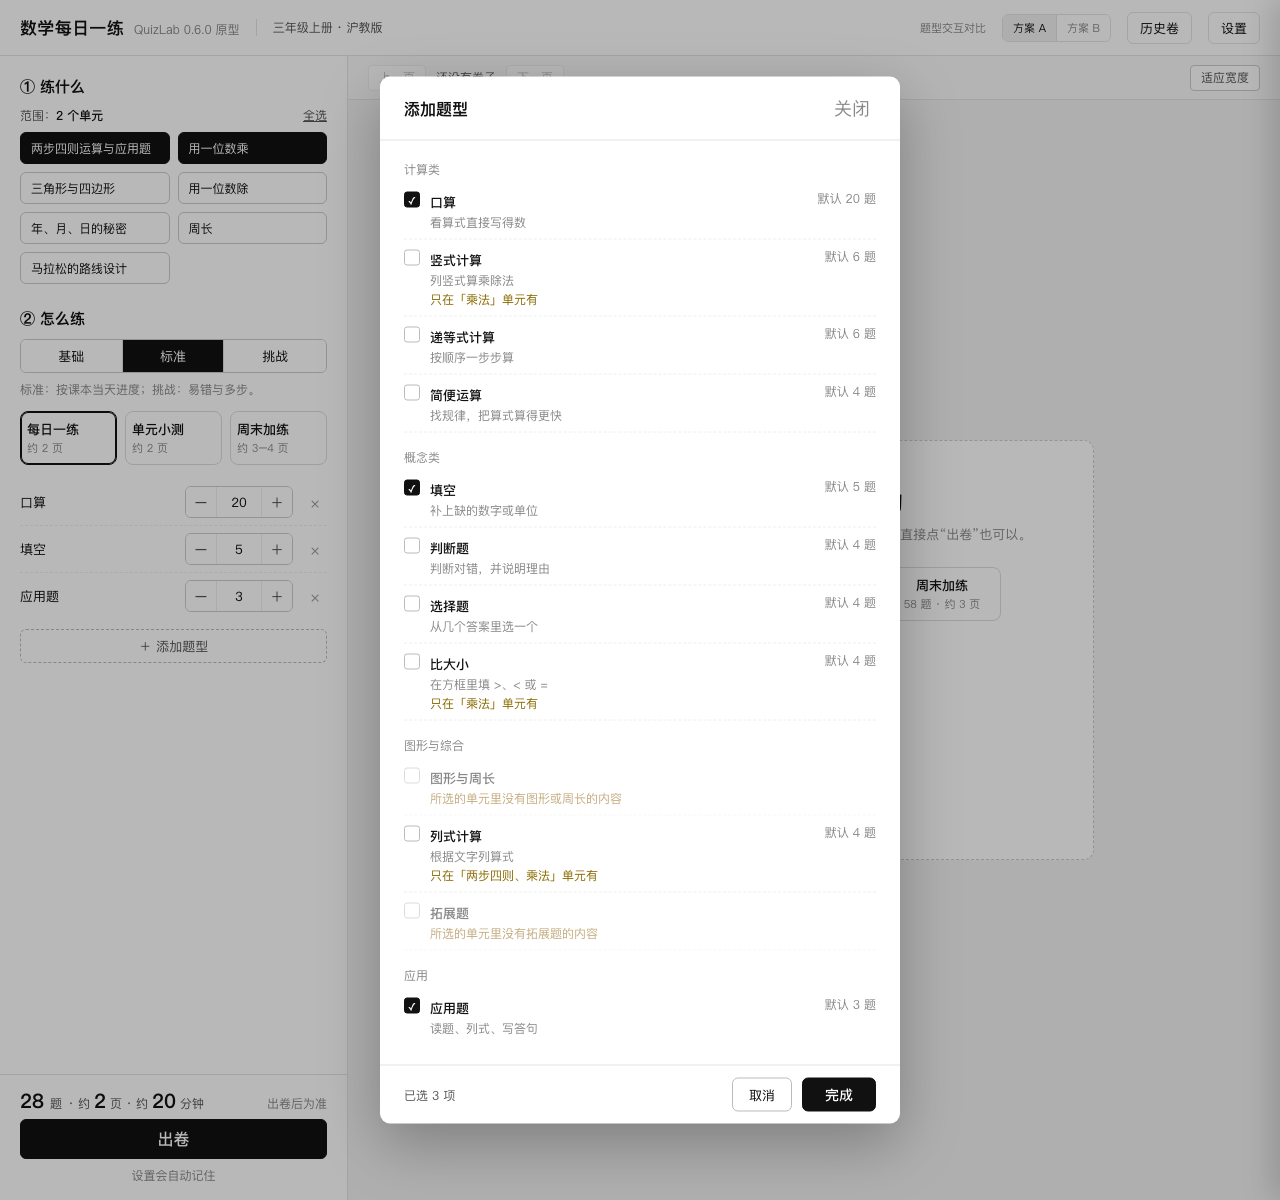
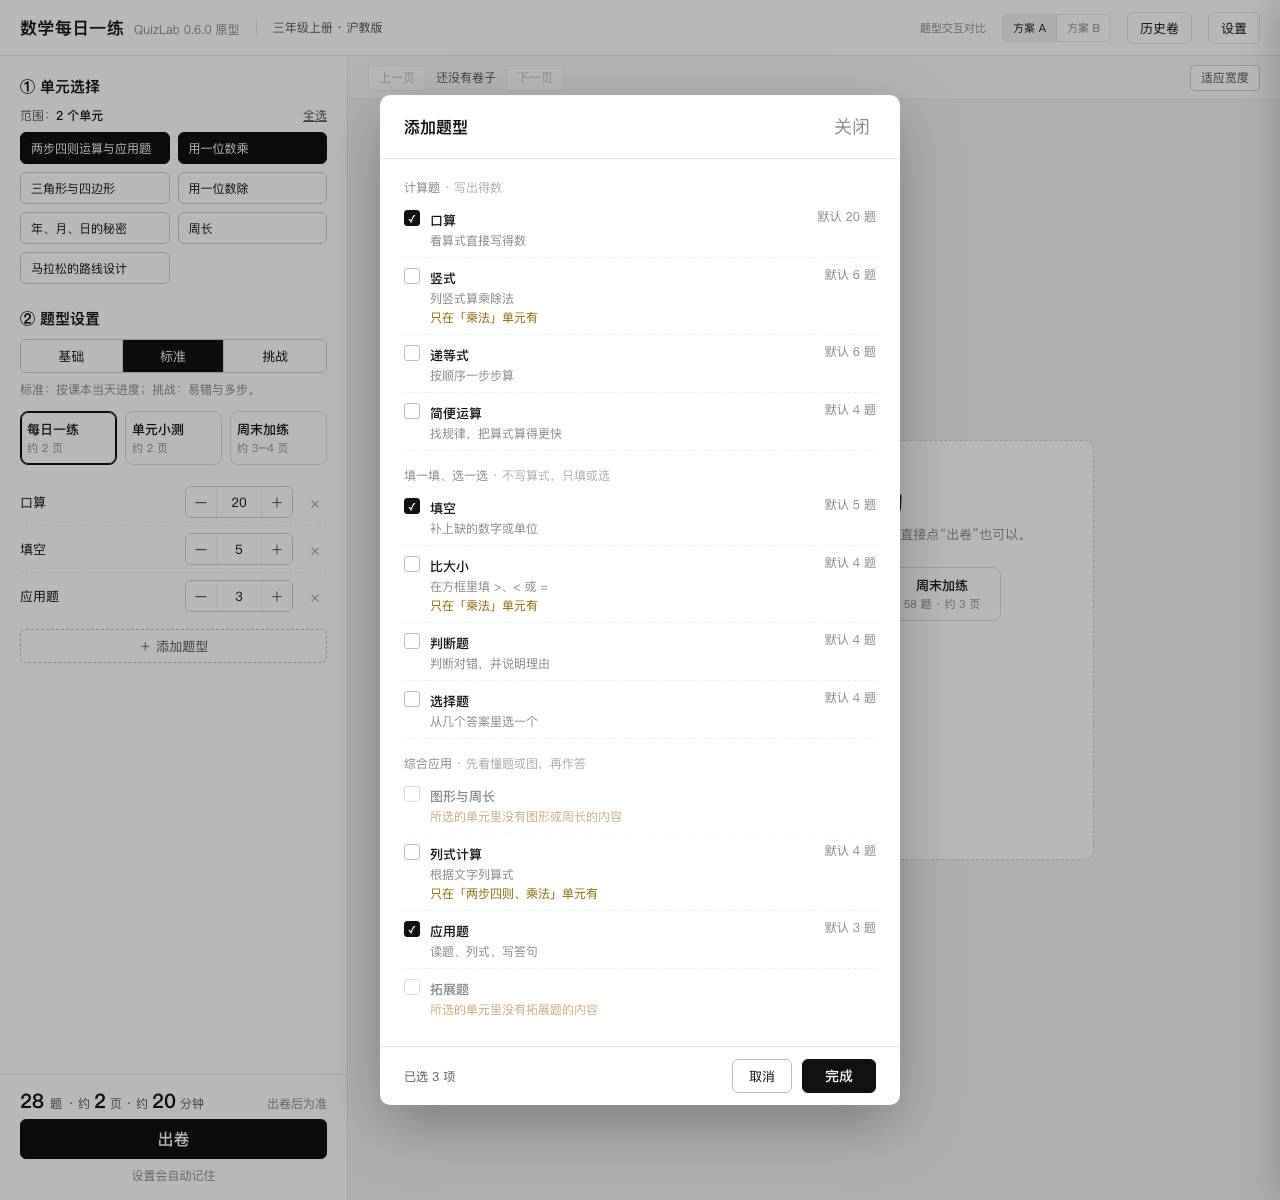
docs: 0.6.0 原型标题与题型分组调整
两个区块改为“单元选择 / 题型设置”；添加面板按 3 组 × 4 项重排，A/B 两版一致。

diff --git a/docs/ui-prototype-0.6.0/index.html b/docs/ui-prototype-0.6.0/index.html
@@ -134,6 +134,7 @@
       .add-search { width: 100%; height: 34px; margin-top: 8px; padding: 0 10px; border: 1px solid #ccc; border-radius: 6px; font-size: 13px; }
       .add-search::placeholder { color: #aaa; }
       .group-title { margin: 16px 0 4px; font-size: 12px; color: var(--ink-3); }
+      .group-hint { color: #aaa; }
       .add-item { display: flex; align-items: flex-start; gap: 10px; padding: 8px 0; border-bottom: 1px dashed #eee; }
       .add-item:last-child { border-bottom: 0; }
       .add-item.disabled { opacity: .5; }
@@ -316,13 +317,13 @@
       <aside class="side">
         <div class="side-scroll">
           <section class="block">
-            <h2>① 练什么</h2>
+            <h2>① 单元选择</h2>
             <div class="range-line"><span>范围：<b id="rangeSummary">全部 7 个单元</b></span><button class="linkbtn" id="toggleAll">全不选</button></div>
             <div class="chips" id="units"></div>
           </section>
 
           <section class="block">
-            <h2>② 怎么练</h2>
+            <h2>② 题型设置</h2>
             <div class="seg" id="levels">
               <button data-level="L1">基础</button>
               <button data-level="L2">标准</button>
@@ -463,20 +464,24 @@
       ]
 
       const TYPES = [
-        { id: 'kousuan', group: '计算类', label: '口算', desc: '看算式直接写得数', def: 20, available: 120, cost: 0.02 },
-        { id: 'chushi', group: '计算类', label: '竖式计算', desc: '列竖式算乘除法', def: 6, available: 150, cost: 0.06, needs: ['用一位数乘', '用一位数除'], topic: '竖式计算的内容' },
-        { id: 'tuoshi', group: '计算类', label: '递等式计算', desc: '按顺序一步步算', def: 6, available: 120, cost: 0.06, needs: ['两步四则运算与应用题'], topic: '两步计算的内容' },
-        { id: 'jianbian', group: '计算类', label: '简便运算', desc: '找规律，把算式算得更快', def: 4, available: 80, cost: 0.06, needs: ['两步四则运算与应用题'], topic: '简便运算的内容' },
-        { id: 'tiankong', group: '概念类', label: '填空', desc: '补上缺的数字或单位', def: 5, available: 90, cost: 0.06 },
-        { id: 'judge', group: '概念类', label: '判断题', desc: '判断对错，并说明理由', def: 4, available: 50, cost: 0.06 },
-        { id: 'choice', group: '概念类', label: '选择题', desc: '从几个答案里选一个', def: 4, available: 50, cost: 0.08 },
-        { id: 'compare', group: '概念类', label: '比大小', desc: '在方框里填 >、< 或 =', def: 4, available: 40, cost: 0.06, needs: ['用一位数乘', '用一位数除'], topic: '比大小的内容' },
-        { id: 'geom', group: '图形与综合', label: '图形与周长', desc: '数图形，算周长', def: 4, available: 30, cost: 0.2, needs: ['三角形与四边形', '周长'], topic: '图形或周长的内容' },
-        { id: 'lieshi', group: '图形与综合', label: '列式计算', desc: '根据文字列算式', def: 4, available: 40, cost: 0.12, needs: ['两步四则运算与应用题', '用一位数乘', '用一位数除'], topic: '列式计算的内容' },
-        { id: 'advanced', group: '图形与综合', label: '拓展题', desc: '多一步的思考题，每题留 3–4 行', def: 3, available: 20, cost: 0.2, needs: ['年、月、日的秘密', '马拉松的路线设计'], topic: '拓展题的内容' },
-        { id: 'word', group: '应用', label: '应用题', desc: '读题、列式、写答句', def: 3, available: 60, cost: 0.08 },
+        { id: 'kousuan', group: '计算题', label: '口算', desc: '看算式直接写得数', def: 20, available: 120, cost: 0.02 },
+        { id: 'chushi', group: '计算题', label: '竖式', desc: '列竖式算乘除法', def: 6, available: 150, cost: 0.06, needs: ['用一位数乘', '用一位数除'], topic: '竖式计算的内容' },
+        { id: 'tuoshi', group: '计算题', label: '递等式', desc: '按顺序一步步算', def: 6, available: 120, cost: 0.06, needs: ['两步四则运算与应用题'], topic: '两步计算的内容' },
+        { id: 'jianbian', group: '计算题', label: '简便运算', desc: '找规律，把算式算得更快', def: 4, available: 80, cost: 0.06, needs: ['两步四则运算与应用题'], topic: '简便运算的内容' },
+        { id: 'tiankong', group: '填一填、选一选', label: '填空', desc: '补上缺的数字或单位', def: 5, available: 90, cost: 0.06 },
+        { id: 'compare', group: '填一填、选一选', label: '比大小', desc: '在方框里填 >、< 或 =', def: 4, available: 40, cost: 0.06, needs: ['用一位数乘', '用一位数除'], topic: '比大小的内容' },
+        { id: 'judge', group: '填一填、选一选', label: '判断题', desc: '判断对错，并说明理由', def: 4, available: 50, cost: 0.06 },
+        { id: 'choice', group: '填一填、选一选', label: '选择题', desc: '从几个答案里选一个', def: 4, available: 50, cost: 0.08 },
+        { id: 'geom', group: '综合应用', label: '图形与周长', desc: '数图形，算周长', def: 4, available: 30, cost: 0.2, needs: ['三角形与四边形', '周长'], topic: '图形或周长的内容' },
+        { id: 'lieshi', group: '综合应用', label: '列式计算', desc: '根据文字列算式', def: 4, available: 40, cost: 0.12, needs: ['两步四则运算与应用题', '用一位数乘', '用一位数除'], topic: '列式计算的内容' },
+        { id: 'word', group: '综合应用', label: '应用题', desc: '读题、列式、写答句', def: 3, available: 60, cost: 0.08 },
+        { id: 'advanced', group: '综合应用', label: '拓展题', desc: '多一步的思考题，每题留 3–4 行', def: 3, available: 20, cost: 0.2, needs: ['年、月、日的秘密', '马拉松的路线设计'], topic: '拓展题的内容' },
       ]
-      const GROUPS = ['计算类', '概念类', '图形与综合', '应用']
+      const GROUPS = [
+        { name: '计算题', hint: '写出得数' },
+        { name: '填一填、选一选', hint: '不写算式，只填或选' },
+        { name: '综合应用', hint: '先看懂题或图，再作答' },
+      ]
       const SHORT_UNIT = {
         '两步四则运算与应用题': '两步四则',
         '用一位数乘': '乘法',
@@ -824,11 +829,15 @@
         }
         const q = state.search.trim()
         GROUPS.forEach((group) => {
-          const items = TYPES.filter((t) => t.group === group && (!q || t.label.includes(q) || t.desc.includes(q)))
+          const items = TYPES.filter((t) => t.group === group.name && (!q || t.label.includes(q) || t.desc.includes(q)))
           if (!items.length) return
           const title = document.createElement('div')
           title.className = 'group-title'
-          title.textContent = group
+          title.textContent = group.name
+          const hint = document.createElement('span')
+          hint.className = 'group-hint'
+          hint.textContent = ` · ${group.hint}`
+          title.appendChild(hint)
           body.appendChild(title)
           items.forEach((t) => {
             const av = availability(t)

diff --git a/docs/ui-design-0.6.0.md b/docs/ui-design-0.6.0.md
@@ -81,11 +81,11 @@
 ├───────────────────────────┬──────────────────────────────────┤
 │ 左栏 340px（常驻）        │ 右栏（常驻）                     │
 │                           │                                  │
-│ ① 练什么                  │ 预览工具条：第 1/2 页 · 适应宽度 │
+│ ① 单元选择                │ 预览工具条：第 1/2 页 · 适应宽度 │
 │   范围：全部 7 个单元 ›   │ ┌──────────────────────────────┐ │
 │   [单元 chip × 7]         │ │                              │ │
 │                           │ │        A4 纸张预览           │ │
-│ ② 怎么练                  │ │                              │ │
+│ ② 题型设置                │ │                              │ │
 │   难度 [基础|标准|挑战]   │ │                              │ │
 │   套餐 [每日一练][小测]   │ │                              │ │
 │   [周末加练]              │ │                              │ │
@@ -205,7 +205,7 @@
 
 - 主界面只列已选题型，每行紧凑：`题型名　[− 20 +]　×`。移除即从本卷去掉，不留空行。
 - 唯一入口是列表下方的 `＋ 添加题型`。
-- 点开后是弹层（宽 520，居中）：按 **计算类 / 概念类 / 图形与综合 / 应用** 分组。
+- 点开后是弹层（宽 520，居中）：按 **计算题 / 填一填、选一选 / 综合应用** 三组排列，组名后跟一句极短说明（"写出得数" / "不写算式，只填或选" / "先看懂题或图，再作答"）。
 - 每项一行：勾选框、题型名、一句人话说明（"列竖式算乘除法"）、右侧"默认 6 题"。
 - **能不能出**：当前所选单元出不出的按灰色显示，行内写具体原因，例如"所选的单元里没有图形或周长的内容"；只有部分单元支持时写"只在「用一位数乘、用一位数除」单元有"。
 - 底部：`已选 N 项`、`取消`、`完成`（主按钮）。
@@ -278,7 +278,7 @@
 | --- | --- | --- | --- |
 | 页面标题 | 20px | 600 | 「今天练什么」/结果页标题 |
 | 数字强调 | 24px | 600 | 结果卡的 28 / 2 / 20 |
-| 区块标题 | 15px | 600 | ①练什么 ②怎么练 ③出卷 |
+| 区块标题 | 15px | 600 | ①单元选择 ②题型设置 ③出卷 |
 | 正文 | 13px | 400 | 表单值、按钮 |
 | 辅助 | 12px | 400 | 说明、单位、路径 |
 | 最小 | 12px | 400 | 不再出现 10/11px |
